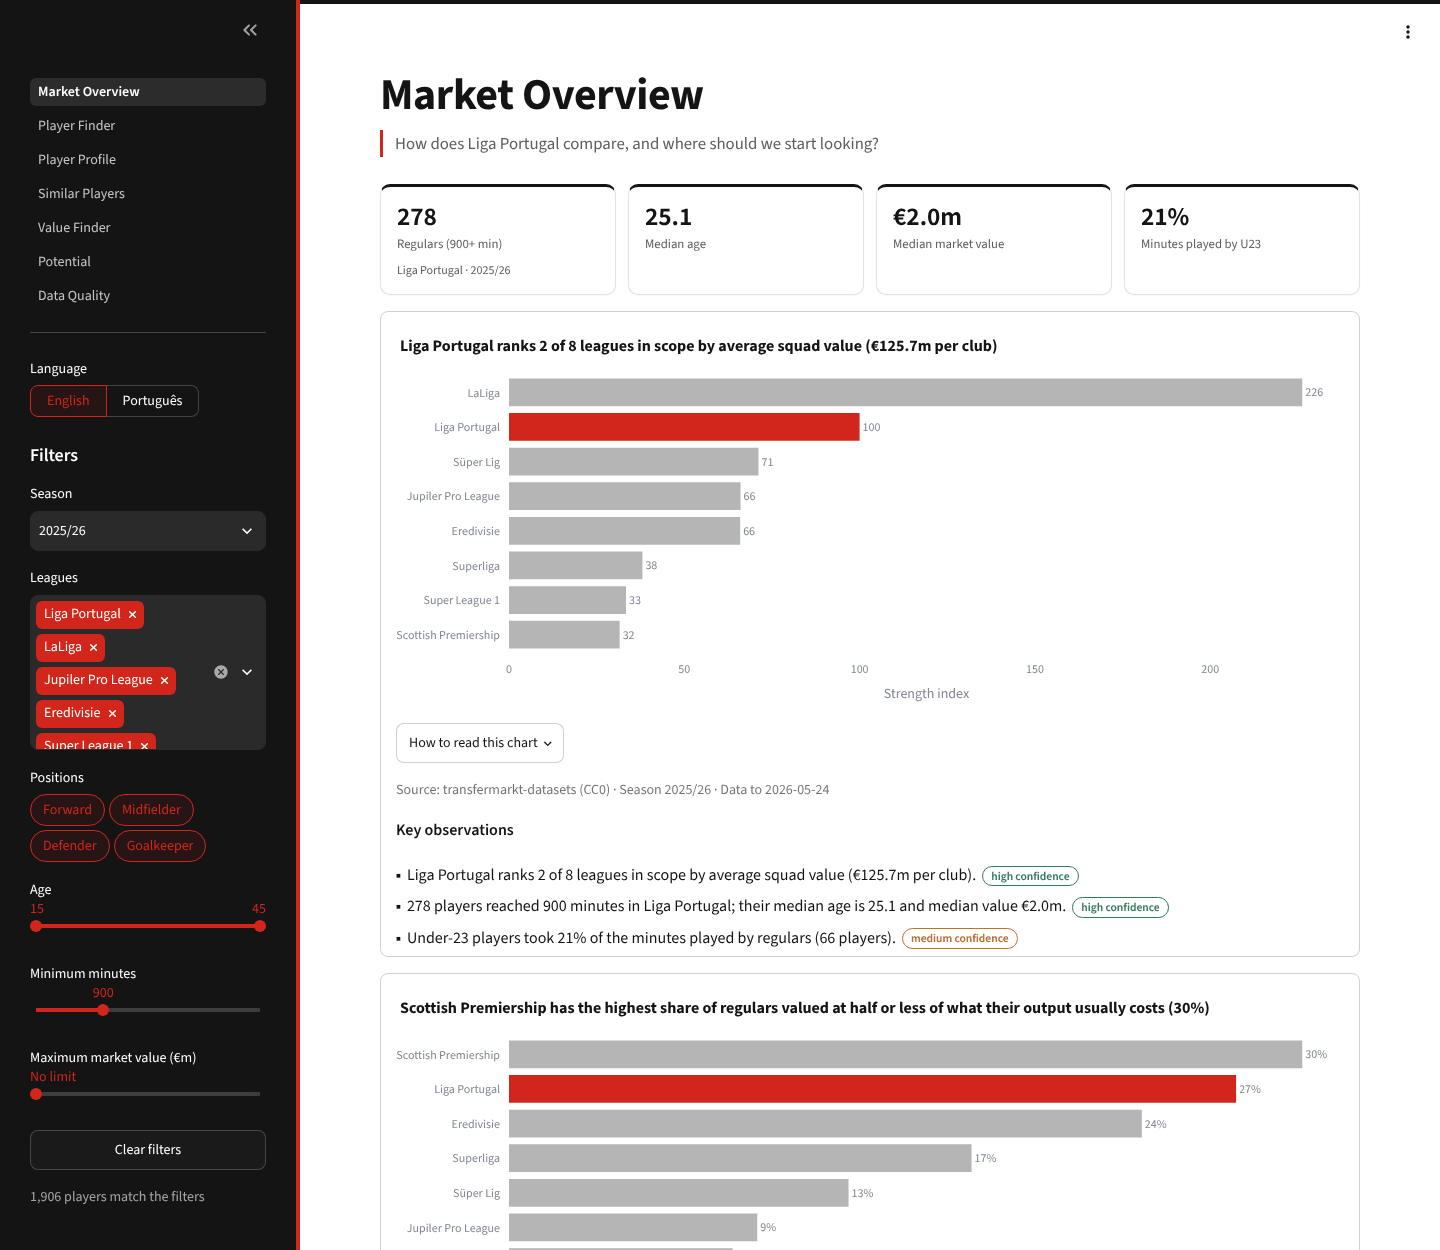
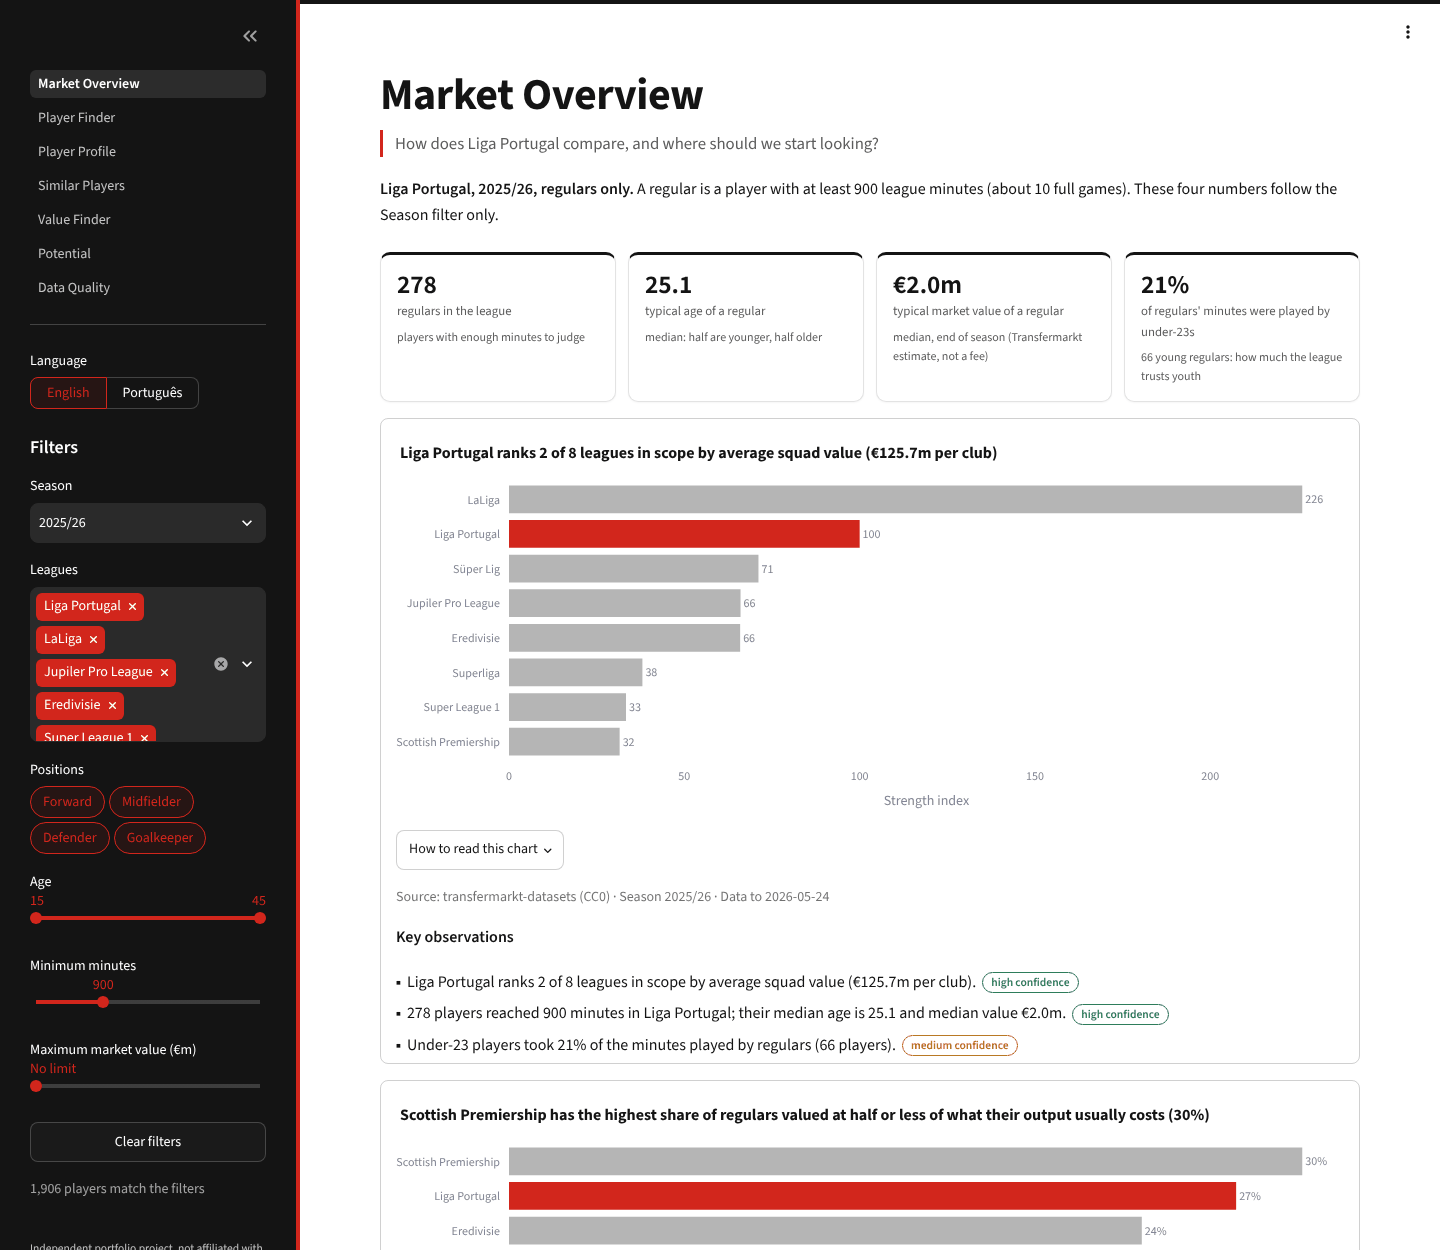
feat(ui): explain every summary card in plain language

diff --git a/pages/0_Market_Overview.py b/pages/0_Market_Overview.py
@@ -17,15 +17,45 @@ from scouting.ui.players import PAGES, money, next_contract_deadline, season_lab
 from scouting.ui.theme import ACCENT, NEUTRAL_SERIES
 
 TEXT = {
+    "cards_scope": {
+        "en": "**{league}, {season}, regulars only.** A regular is a player with at least {min} "
+        "league minutes (about {games} full games). These four numbers follow the Season filter "
+        "only.",
+        "pt": "**{league}, {season}, só titulares habituais.** Titular habitual é um jogador com "
+        "pelo menos {min} minutos de liga (cerca de {games} jogos completos). Estes quatro números "
+        "só seguem o filtro Época.",
+    },
+    "k_regulars": {"en": "regulars in the league", "pt": "titulares habituais na liga"},
+    "k_regulars_note": {
+        "en": "players with enough minutes to judge",
+        "pt": "jogadores com minutos suficientes para avaliar",
+    },
+    "k_age": {"en": "typical age of a regular", "pt": "idade típica de um titular"},
+    "k_age_note": {
+        "en": "median: half are younger, half older",
+        "pt": "mediana: metade é mais nova, metade mais velha",
+    },
+    "k_value": {
+        "en": "typical market value of a regular",
+        "pt": "valor de mercado típico de um titular",
+    },
+    "k_value_note": {
+        "en": "median, end of season (Transfermarkt estimate, not a fee)",
+        "pt": "mediana, fim da época (estimativa Transfermarkt, não é uma transferência)",
+    },
+    "k_u23": {
+        "en": "of regulars' minutes were played by under-23s",
+        "pt": "dos minutos dos titulares foram jogados por sub-23",
+    },
+    "k_u23_note": {
+        "en": "{n} young regulars: how much the league trusts youth",
+        "pt": "{n} titulares jovens: quanto a liga aposta na juventude",
+    },
     "title": {"en": "Market Overview", "pt": "Visão geral do mercado"},
     "question": {
         "en": "How does {league} compare, and where should we start looking?",
         "pt": "Como se compara a {league}, e por onde começar a procurar?",
     },
-    "regulars": {"en": "Regulars ({min}+ min)", "pt": "Titulares habituais ({min}+ min)"},
-    "median_age": {"en": "Median age", "pt": "Idade mediana"},
-    "median_value": {"en": "Median market value", "pt": "Valor de mercado mediano"},
-    "u23": {"en": "Minutes played by U23", "pt": "Minutos jogados por sub-23"},
     "strength_how": {
         "en": "Average club squad value in each league, relative to {league} (= 100). It is a "
         "proxy for financial strength, used as context next to percentiles; see Data Quality "
@@ -91,16 +121,37 @@ u23_share = (
     if not regulars.empty
     else float("nan")
 )
+n_young = int((regulars["age"] < 23).sum())
+st.markdown(
+    tr(TEXT["cards_scope"], lang).format(
+        league=focus_name,
+        season=season_label(season),
+        min=num(min_minutes, lang),
+        games=num(min_minutes / 90, lang),
+    )
+)
 c.kpi_row(
     [
         c.Kpi(
             num(len(regulars), lang),
-            tr(TEXT["regulars"], lang).format(min=num(min_minutes, lang)),
-            f"{focus_name} · {season_label(season)}",
+            tr(TEXT["k_regulars"], lang),
+            tr(TEXT["k_regulars_note"], lang),
         ),
-        c.Kpi(num(regulars["age"].median(), lang, 1), tr(TEXT["median_age"], lang)),
-        c.Kpi(money(regulars["market_value_end"].median(), lang), tr(TEXT["median_value"], lang)),
-        c.Kpi(f"{u23_share:.0%}", tr(TEXT["u23"], lang)),
+        c.Kpi(
+            num(regulars["age"].median(), lang, 1),
+            tr(TEXT["k_age"], lang),
+            tr(TEXT["k_age_note"], lang),
+        ),
+        c.Kpi(
+            money(regulars["market_value_end"].median(), lang),
+            tr(TEXT["k_value"], lang),
+            tr(TEXT["k_value_note"], lang),
+        ),
+        c.Kpi(
+            f"{u23_share:.0%}",
+            tr(TEXT["k_u23"], lang),
+            tr(TEXT["k_u23_note"], lang).format(n=num(n_young, lang)),
+        ),
     ]
 )
 

diff --git a/pages/2_Player_Profile.py b/pages/2_Player_Profile.py
@@ -5,7 +5,7 @@ from __future__ import annotations
 import pandas as pd
 import streamlit as st
 
-from scouting.insights import player_insights
+from scouting.insights import POSITION_LABEL, player_insights
 from scouting.metrics.catalog import PROFILE_METRICS, metric
 from scouting.metrics.percentiles import PCT_SUFFIX
 from scouting.ui import charts
@@ -30,12 +30,30 @@ TEXT = {
         "pt": "O que este jogador acrescenta, e com que segurança o podemos dizer?",
     },
     "choose": {"en": "Player", "pt": "Jogador"},
-    "age": {"en": "Age", "pt": "Idade"},
-    "position": {"en": "Position", "pt": "Posição"},
-    "club": {"en": "Club", "pt": "Clube"},
-    "minutes": {"en": "Minutes", "pt": "Minutos"},
-    "value": {"en": "Market value (end of season)", "pt": "Valor de mercado (fim da época)"},
-    "contract": {"en": "Contract until", "pt": "Contrato até"},
+    "age": {"en": "years old", "pt": "anos"},
+    "age_note": {
+        "en": "on 1 January {year}, mid-season",
+        "pt": "a 1 de janeiro de {year}, a meio da época",
+    },
+    "position": {"en": "main position", "pt": "posição principal"},
+    "position_note": {
+        "en": "his percentiles compare him with {group}",
+        "pt": "os percentis comparam-no com {group}",
+    },
+    "club": {"en": "club where he played most", "pt": "clube onde mais jogou"},
+    "minutes": {"en": "league minutes this season", "pt": "minutos de liga nesta época"},
+    "minutes_note": {
+        "en": "{share:.0%} of his team's minutes · {conf}",
+        "pt": "{share:.0%} dos minutos da equipa · {conf}",
+    },
+    "value": {
+        "en": "market value at the end of the season",
+        "pt": "valor de mercado no fim da época",
+    },
+    "contract": {
+        "en": "Transfermarkt estimate · contract until",
+        "pt": "estimativa Transfermarkt · contrato até",
+    },
     "profile_title": {
         "en": "Percentile profile vs {n} {pos} in the same season",
         "pt": "Perfil em percentis vs {n} {pos} na mesma época",
@@ -106,13 +124,25 @@ contract = row["contract_expiration_date"]
 
 c.kpi_row(
     [
-        c.Kpi(num(row["age"], lang, 1), tr(TEXT["age"], lang)),
-        c.Kpi(position_label(row["sub_position"], lang), tr(TEXT["position"], lang)),
+        c.Kpi(
+            num(row["age"], lang, 1),
+            tr(TEXT["age"], lang),
+            tr(TEXT["age_note"], lang).format(year=int(row["season"]) + 1),
+        ),
+        c.Kpi(
+            position_label(row["sub_position"], lang),
+            tr(TEXT["position"], lang),
+            tr(TEXT["position_note"], lang).format(
+                group=POSITION_LABEL[lang][row["position_group"]]
+            ),
+        ),
         c.Kpi(str(row["club_name"]), tr(TEXT["club"], lang), str(row["competition_name"])),
         c.Kpi(
             num(row["minutes"], lang),
             tr(TEXT["minutes"], lang),
-            t(f"confidence_{confidence}", lang),
+            tr(TEXT["minutes_note"], lang).format(
+                share=float(row["minutes_share"]), conf=t(f"confidence_{confidence}", lang)
+            ),
         ),
         c.Kpi(
             money(row["market_value_end"], lang),

diff --git a/pages/4_Value_Finder.py b/pages/4_Value_Finder.py
@@ -27,11 +27,29 @@ TEXT = {
         "en": "Flag players valued at or below this share of the expected value",
         "pt": "Destacar jogadores avaliados até esta fração do valor esperado",
     },
-    "analysed": {"en": "Players analysed", "pt": "Jogadores analisados"},
-    "flagged": {"en": "Below the threshold", "pt": "Abaixo do limite"},
-    "median_ratio": {"en": "Median value vs expected", "pt": "Valor vs esperado (mediana)"},
-    "fit": {"en": "Model fit (R²)", "pt": "Ajuste do modelo (R²)"},
-    "fit_note": {"en": "share of value explained", "pt": "variação do valor explicada"},
+    "analysed": {"en": "{pos} compared", "pt": "{pos} comparados"},
+    "analysed_note": {
+        "en": "match your filters and have an up-to-date value",
+        "pt": "cumprem os filtros e têm valor atualizado",
+    },
+    "flagged": {
+        "en": "valued at {p:.0%} or less of what their output usually costs",
+        "pt": "avaliados em {p:.0%} ou menos do que a sua produção costuma custar",
+    },
+    "flagged_note": {"en": "listed in the table below", "pt": "na tabela abaixo"},
+    "median_ratio": {
+        "en": "typical value vs expected",
+        "pt": "valor vs esperado típico",
+    },
+    "median_ratio_note": {
+        "en": "1.00x = priced exactly as the model expects",
+        "pt": "1,00x = preço exatamente como o modelo espera",
+    },
+    "fit": {"en": "model fit (R²)", "pt": "ajuste do modelo (R²)"},
+    "fit_note": {
+        "en": "output, age and league explain {p:.0%} of the differences in value",
+        "pt": "produção, idade e liga explicam {p:.0%} das diferenças de valor",
+    },
     "chart_title": {
         "en": "{k} of {n} {pos} are valued at or below {p:.0%} of what similar output "
         "usually costs",
@@ -101,13 +119,25 @@ flagged = pool[pool["value_ratio"] <= threshold].sort_values("value_ratio")
 fit_r2 = pool["fit_r2"].dropna()
 c.kpi_row(
     [
-        c.Kpi(num(len(pool), lang), tr(TEXT["analysed"], lang), season_label(filters.season)),
-        c.Kpi(num(len(flagged), lang), tr(TEXT["flagged"], lang), f"≤ {threshold:.0%}"),
-        c.Kpi(num(pool["value_ratio"].median(), lang, 2) + "x", tr(TEXT["median_ratio"], lang)),
+        c.Kpi(
+            num(len(pool), lang),
+            tr(TEXT["analysed"], lang).format(pos=POSITION_LABEL[lang][group]),
+            tr(TEXT["analysed_note"], lang),
+        ),
+        c.Kpi(
+            num(len(flagged), lang),
+            tr(TEXT["flagged"], lang).format(p=threshold),
+            tr(TEXT["flagged_note"], lang),
+        ),
+        c.Kpi(
+            num(pool["value_ratio"].median(), lang, 2) + "x",
+            tr(TEXT["median_ratio"], lang),
+            tr(TEXT["median_ratio_note"], lang),
+        ),
         c.Kpi(
             "—" if fit_r2.empty else num(fit_r2.iloc[0], lang, 2),
             tr(TEXT["fit"], lang),
-            tr(TEXT["fit_note"], lang),
+            "" if fit_r2.empty else tr(TEXT["fit_note"], lang).format(p=float(fit_r2.iloc[0])),
         ),
     ]
 )

diff --git a/pages/1_Player_Finder.py b/pages/1_Player_Finder.py
@@ -29,12 +29,24 @@ TEXT = {
     "contract": {"en": "Contract ends by", "pt": "Contrato termina até"},
     "any": {"en": "Any", "pt": "Qualquer"},
     "sort": {"en": "Sort by", "pt": "Ordenar por"},
-    "players": {"en": "Players matching the filters", "pt": "Jogadores que cumprem os filtros"},
-    "median_age": {"en": "Median age", "pt": "Idade mediana"},
-    "median_value": {"en": "Median market value", "pt": "Valor de mercado mediano"},
+    "players": {"en": "players match your filters", "pt": "jogadores cumprem os filtros"},
+    "players_note": {
+        "en": "season {season}, listed below",
+        "pt": "época {season}, na lista abaixo",
+    },
+    "median_age": {"en": "typical age in this list", "pt": "idade típica nesta lista"},
+    "median_value": {"en": "typical market value in this list", "pt": "valor típico nesta lista"},
+    "median_note": {
+        "en": "median: half are above, half below",
+        "pt": "mediana: metade acima, metade abaixo",
+    },
     "expiring": {
-        "en": "Contract ends by next summer",
-        "pt": "Contrato termina até ao próximo verão",
+        "en": "have a contract ending by {date}",
+        "pt": "têm contrato a terminar até {date}",
+    },
+    "expiring_note": {
+        "en": "a contract close to its end usually lowers the fee",
+        "pt": "um contrato perto do fim costuma baixar o valor da transferência",
     },
     "export": {"en": "Download shortlist (CSV)", "pt": "Descarregar lista (CSV)"},
     "open": {"en": "Open profile", "pt": "Abrir perfil"},
@@ -119,10 +131,26 @@ if shortlist.empty:
 expiring = (shortlist["contract_expiration_date"] <= next_summer).mean()
 c.kpi_row(
     [
-        c.Kpi(num(len(shortlist), lang), tr(TEXT["players"], lang), season_label(season)),
-        c.Kpi(num(shortlist["age"].median(), lang, 1), tr(TEXT["median_age"], lang)),
-        c.Kpi(money(shortlist["market_value_end"].median(), lang), tr(TEXT["median_value"], lang)),
-        c.Kpi(f"{expiring:.0%}", tr(TEXT["expiring"], lang), next_summer.date().isoformat()),
+        c.Kpi(
+            num(len(shortlist), lang),
+            tr(TEXT["players"], lang),
+            tr(TEXT["players_note"], lang).format(season=season_label(season)),
+        ),
+        c.Kpi(
+            num(shortlist["age"].median(), lang, 1),
+            tr(TEXT["median_age"], lang),
+            tr(TEXT["median_note"], lang),
+        ),
+        c.Kpi(
+            money(shortlist["market_value_end"].median(), lang),
+            tr(TEXT["median_value"], lang),
+            tr(TEXT["median_note"], lang),
+        ),
+        c.Kpi(
+            f"{expiring:.0%}",
+            tr(TEXT["expiring"], lang).format(date=next_summer.date().isoformat()),
+            tr(TEXT["expiring_note"], lang),
+        ),
     ]
 )
 

diff --git a/pages/6_Data_Quality.py b/pages/6_Data_Quality.py
@@ -22,10 +22,26 @@ TEXT = {
         "en": "Can we trust what we are seeing, and what is missing?",
         "pt": "Podemos confiar no que vemos, e o que falta?",
     },
-    "cutoff": {"en": "Last game in the data", "pt": "Último jogo nos dados"},
-    "games": {"en": "League games", "pt": "Jogos de liga"},
-    "rows": {"en": "Player-seasons", "pt": "Jogador-épocas"},
-    "version": {"en": "Source version", "pt": "Versão da fonte"},
+    "cutoff": {"en": "last game in the data", "pt": "último jogo nos dados"},
+    "cutoff_note": {
+        "en": "nothing after this date is included",
+        "pt": "nada depois desta data está incluído",
+    },
+    "games": {"en": "league games analysed", "pt": "jogos de liga analisados"},
+    "games_note": {
+        "en": "{leagues} leagues × {seasons} seasons",
+        "pt": "{leagues} ligas × {seasons} épocas",
+    },
+    "rows": {"en": "player seasons", "pt": "épocas de jogadores"},
+    "rows_note": {
+        "en": "one row per player, season and league",
+        "pt": "uma linha por jogador, época e liga",
+    },
+    "version": {"en": "version of the source data", "pt": "versão dos dados de origem"},
+    "version_note": {
+        "en": "transfermarkt-datasets, fixed so results can be reproduced",
+        "pt": "transfermarkt-datasets, fixa para os resultados serem reproduzíveis",
+    },
     "coverage_title": {
         "en": "Regulars ({min}+ minutes) per league and season: {low} has the smallest pool",
         "pt": "Titulares habituais ({min}+ minutos) por liga e época: {low} tem o menor grupo",
@@ -115,10 +131,20 @@ version = (data.manifest.get("source_version") or [{}])[0]
 version_label = str(version.get("commit_hash") or version.get("version") or "—")[:7]
 c.kpi_row(
     [
-        c.Kpi(q.data_cutoff.date().isoformat(), tr(TEXT["cutoff"], lang)),
-        c.Kpi(num(q.games, lang), tr(TEXT["games"], lang)),
-        c.Kpi(num(q.player_seasons, lang), tr(TEXT["rows"], lang)),
-        c.Kpi(version_label, tr(TEXT["version"], lang), "transfermarkt-datasets"),
+        c.Kpi(
+            q.data_cutoff.date().isoformat(),
+            tr(TEXT["cutoff"], lang),
+            tr(TEXT["cutoff_note"], lang),
+        ),
+        c.Kpi(
+            num(q.games, lang),
+            tr(TEXT["games"], lang),
+            tr(TEXT["games_note"], lang).format(
+                leagues=len(settings.scope.competitions), seasons=len(settings.scope.seasons)
+            ),
+        ),
+        c.Kpi(num(q.player_seasons, lang), tr(TEXT["rows"], lang), tr(TEXT["rows_note"], lang)),
+        c.Kpi(version_label, tr(TEXT["version"], lang), tr(TEXT["version_note"], lang)),
     ]
 )
 c.status_board(

diff --git a/pages/5_Potential.py b/pages/5_Potential.py
@@ -21,9 +21,27 @@ TEXT = {
         "en": "Which young players are already trusted by their coaches?",
         "pt": "Que jogadores jovens já têm a confiança dos treinadores?",
     },
-    "young": {"en": "Young players (≤ {age})", "pt": "Jogadores jovens (≤ {age})"},
-    "two_plus": {"en": "Meet 2+ of 3 signals", "pt": "Cumprem 2+ de 3 sinais"},
-    "median_share": {"en": "Median share of team minutes", "pt": "% mediana dos minutos da equipa"},
+    "young": {"en": "players aged {age} or under", "pt": "jogadores com {age} anos ou menos"},
+    "young_note": {
+        "en": "match your filters, season {season}",
+        "pt": "cumprem os filtros, época {season}",
+    },
+    "two_plus": {
+        "en": "show at least 2 of the 3 signals",
+        "pt": "mostram pelo menos 2 dos 3 sinais",
+    },
+    "two_plus_note": {
+        "en": "signals are explained under the chart",
+        "pt": "os sinais são explicados por baixo do gráfico",
+    },
+    "median_share": {
+        "en": "typical share of team minutes for these young players",
+        "pt": "% típica dos minutos da equipa destes jovens",
+    },
+    "median_share_note": {
+        "en": "median: half play more, half less",
+        "pt": "mediana: metade joga mais, metade menos",
+    },
     "chart_title": {
         "en": "{k} players aged {age} or under meet at least two of the three signals",
         "pt": "{k} jogadores com {age} anos ou menos cumprem pelo menos dois dos três sinais",
@@ -111,10 +129,14 @@ c.kpi_row(
         c.Kpi(
             num(len(shown), lang),
             tr(TEXT["young"], lang).format(age=f"{max_age:g}"),
-            season_label(filters.season),
+            tr(TEXT["young_note"], lang).format(season=season_label(filters.season)),
         ),
-        c.Kpi(num(len(strong), lang), tr(TEXT["two_plus"], lang)),
-        c.Kpi(f"{shown['minutes_share'].median():.0%}", tr(TEXT["median_share"], lang)),
+        c.Kpi(num(len(strong), lang), tr(TEXT["two_plus"], lang), tr(TEXT["two_plus_note"], lang)),
+        c.Kpi(
+            f"{shown['minutes_share'].median():.0%}",
+            tr(TEXT["median_share"], lang),
+            tr(TEXT["median_share_note"], lang),
+        ),
     ]
 )
 
